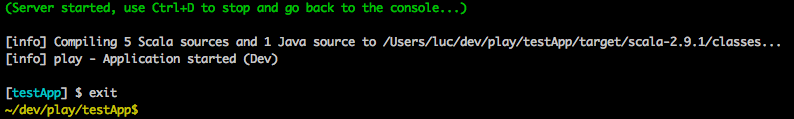
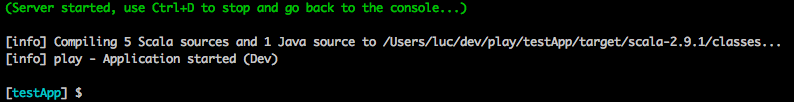
Changed the description and way to use sbteclipse

Changed region(s): [[0.0, 0.2941, 0.9975, 0.6471], [0.0, 0.0, 0.6045, 0.1471], [0.0, 0.7353, 0.1814, 1.0]]

diff --git a/tutorials/play20scalaide20/index-fr.html b/tutorials/play20scalaide20/index-fr.html
@@ -116,7 +116,7 @@
 <ul>
 <li><p class="first">Téléchargez Play framework 2.0-RC1 sur <a class="reference external" href="http://www.playframework.org/2.0">http://www.playframework.org/2.0</a>.</p>
 </li>
-<li><p class="first">Unzippez l&#8217;archive dans votre répertoire préféré. Nous utiliserons <tt class="docutils literal"><span class="pre">/path/to/play20</span></tt> dans ce document.</p>
+<li><p class="first">Un-zippez l&#8217;archive dans votre répertoire préféré. Nous utiliserons <tt class="docutils literal"><span class="pre">/path/to/play20</span></tt> dans ce document.</p>
 </li>
 <li><p class="first">Pour simplifier l&#8217;utilisation, ajoutez le répertoire de Play dans le PATH:</p>
 <div class="highlight-bash"><div class="highlight"><pre><span class="nb">export </span><span class="nv">PATH</span><span class="o">=</span><span class="nv">$PATH</span>:/path/to/play20
@@ -148,27 +148,15 @@
 <div class="section" id="configurer-l-application-web-play-2-0-pour-scala-ide">
 <h2>Configurer l&#8217;application web Play 2.0 pour Scala IDE<a class="headerlink" href="#configurer-l-application-web-play-2-0-pour-scala-ide" title="Permalink to this headline">¶</a></h2>
 <p>Maintenant que l&#8217;application Play fonctionne, il faut la configurer pour pouvoir l&#8217;importer dans Scala IDE.</p>
-<p><a class="reference external" href="https://github.com/musk/SbtEclipsify">eclipsify</a> est intégré dans Play 2.0-RC1. Malheureusement, la configuration qu&#8217;il génère n&#8217;est pas entièrement supportée par Scala IDE 2.0 (voir <a class="reference external" href="http://www.assembla.com/spaces/scala-ide/tickets/1000907">#1000907</a> pour plus de détails).</p>
-<p>Donc nous utilisons <a class="reference external" href="https://github.com/typesafehub/sbteclipse">sbteclipse</a> pour faire de l&#8217;application web un projet Eclipse.</p>
+<p>Play 2.0-RC1 intègre <a class="reference external" href="https://github.com/typesafehub/sbteclipse">sbteclipse</a>, qui permet de créer les fichiers de configuration d&#8217;un projet pour Eclipse.</p>
 <ul>
-<li><p class="first">D&#8217;abord, sortez de Play, en utilisant <tt class="docutils literal"><span class="pre">ctrl-d</span></tt>, puis <tt class="docutils literal"><span class="pre">exit</span></tt>.</p>
+<li><p class="first">D&#8217;abord, sortez du mode &#8216;run&#8217; de Play, en utilisant <tt class="docutils literal"><span class="pre">ctrl-d</span></tt>.</p>
 <a class="reference external image-reference" href="../../_images/play20-scalaide20-06.png"><img alt="ctrl-d, exit" src="../../_images/play20-scalaide20-06.png" style="width: 100%;" /></a>
 </li>
-<li><p class="first">Ajoutez sbteclipse à sbt en créant le fichier <tt class="docutils literal"><span class="pre">project/build.sbt</span></tt> avec le contenu suivant.</p>
-<div class="highlight-scala"><div class="highlight"><pre><span class="n">resolvers</span> <span class="o">+=</span> <span class="nc">Classpaths</span><span class="o">.</span><span class="n">typesafeResolver</span>
-
-<span class="n">addSbtPlugin</span><span class="o">(</span><span class="s">&quot;com.typesafe.sbteclipse&quot;</span> <span class="o">%</span> <span class="s">&quot;sbteclipse&quot;</span> <span class="o">%</span> <span class="s">&quot;1.5.0&quot;</span><span class="o">)</span>
-</pre></div>
-</div>
-<a class="reference external image-reference" href="../../_images/play20-scalaide20-07.png"><img alt="modify project/build.sbt" src="../../_images/play20-scalaide20-07.png" style="width: 100%;" /></a>
-</li>
-<li><p class="first">Retournez dans Play.</p>
-<a class="reference external image-reference" href="../../_images/play20-scalaide20-08.png"><img alt="play" src="../../_images/play20-scalaide20-08.png" style="width: 100%;" /></a>
-</li>
-<li><p class="first">Générez la configuration du projet Eclipse.</p>
+<li><p class="first"><tt class="docutils literal"><span class="pre">eclipsify</span></tt> est la commande à utiliser pour lancer sbteclipse depuis Play.</p>
 <a class="reference external image-reference" href="../../_images/play20-scalaide20-09.png"><img alt="eclipse" src="../../_images/play20-scalaide20-09.png" style="width: 100%;" /></a>
 </li>
-<li><p class="first">Et relancez l&#8217;application web, de manière à ce qu&#8217;elle soit disponible plus tard.</p>
+<li><p class="first">Relancez l&#8217;application web, en mode &#8216;auto-reloading&#8217;, en utilisant <tt class="docutils literal"><span class="pre">~</span> <span class="pre">run</span></tt>, de manière à ce qu&#8217;elle fonctionne en arrière plan.</p>
 <a class="reference external image-reference" href="../../_images/play20-scalaide20-10.png"><img alt="run" src="../../_images/play20-scalaide20-10.png" style="width: 100%;" /></a>
 </li>
 </ul>
@@ -195,6 +183,13 @@
 <li><p class="first">Importez l&#8217;application Play 2.0 en tant que <tt class="docutils literal"><span class="pre">Existing</span> <span class="pre">Projects</span> <span class="pre">into</span> <span class="pre">Workspace</span></tt>.</p>
 <a class="reference external image-reference" href="../../_images/play20-scalaide20-15.png"><img alt="import project" src="../../_images/play20-scalaide20-15.png" style="width: 100%;" /></a>
 </li>
+<li><p class="first">La configuration générée par sbteclipse permet l&#8217;utilisation du project dans Eclipse, mais elle n&#8217;est pas optimale avec Scala IDE.</p>
+<p>Ajoutez le répertoire <tt class="docutils literal"><span class="pre">target/src_managed/main</span></tt> comme répertoire source.</p>
+<a class="reference external image-reference" href="../../_images/play20-scalaide20-20.png"><img alt="add the managed sources folder" src="../../_images/play20-scalaide20-20.png" style="width: 100%;" /></a>
+</li>
+<li><p class="first">Et enlevez le répertoire <tt class="docutils literal"><span class="pre">classes_managed</span></tt> du build path.</p>
+<a class="reference external image-reference" href="../../_images/play20-scalaide20-21.png"><img alt="remove managed classes folder" src="../../_images/play20-scalaide20-21.png" style="width: 100%;" /></a>
+</li>
 <li><p class="first">Tout est parfait, tout compile.</p>
 <a class="reference external image-reference" href="../../_images/play20-scalaide20-16.png"><img alt="everything compiles" src="../../_images/play20-scalaide20-16.png" style="width: 100%;" /></a>
 </li>
@@ -208,7 +203,7 @@
 <li><p class="first">D&#8217;abord, créez la classe <tt class="docutils literal"><span class="pre">models.Quote</span></tt> en utilisant l&#8217;assistant nouvelle <tt class="docutils literal"><span class="pre">Scala</span> <span class="pre">Class</span></tt>.</p>
 <a class="reference external image-reference" href="../../_images/play20-scalaide20-19.png"><img alt="create model.Quote" src="../../_images/play20-scalaide20-19.png" style="width: 100%;" /></a>
 </li>
-<li><p class="first">Ajoutez les variables à <tt class="docutils literal"><span class="pre">models.Quote</span></tt>, et faites en une case class.</p>
+<li><p class="first">Ajoutez les variables à <tt class="docutils literal"><span class="pre">models.Quote</span></tt>, et faites en une case classe.</p>
 <div class="highlight-scala"><div class="highlight"><pre><span class="k">package</span> <span class="nn">models</span>
 
 <span class="k">case</span> <span class="k">class</span> <span class="nc">Quote</span><span class="o">(</span><span class="k">val</span> <span class="n">text</span><span class="k">:</span> <span class="kt">String</span><span class="o">,</span> <span class="k">val</span> <span class="n">author</span><span class="k">:</span> <span class="kt">String</span><span class="o">)</span> <span class="o">{</span>
@@ -228,8 +223,8 @@
 </pre></div>
 </div>
 </li>
-<li><p class="first">Les templates sont transformés en code Scala par le Play framework, donc utilisez le bouton <tt class="docutils literal"><span class="pre">refresh</span></tt> du navigateur interne pour l&#8217;effectuer.</p>
-<p>Play répond avec une erreur compilation, l&#8217;application n&#8217;utilise pas le template correctement. L&#8217;erreur est aussi visible dans le code de <tt class="docutils literal"><span class="pre">Application.scala</span></tt>.</p>
+<li><p class="first">Les templates sont transformés en code Scala par le Play framework. Comme Play a été lancé en mode &#8216;auto-reloading&#8217; en arrière plan, les templates sont recompilés dès que le fichier est sauvegardé.</p>
+<p>Apres avoir sauvegardé le fichier, les changements sont chargés par Scala IDE, et une erreur est reporté dans le code de <tt class="docutils literal"><span class="pre">Application.scala</span></tt>. L&#8217;application n&#8217;utilise pas le template correctement.</p>
 <a class="reference external image-reference" href="../../_images/play20-scalaide20-17.png"><img alt="compilation error" src="../../_images/play20-scalaide20-17.png" style="width: 100%;" /></a>
 </li>
 <li><p class="first">Corrigez le code de l&#8217;application, en utilisant une citation élégante. Et corrigez les imports au besoin.</p>

diff --git a/tutorials/play20scalaide20/index.html b/tutorials/play20scalaide20/index.html
@@ -146,27 +146,15 @@
 <div class="section" id="configuring-the-play-2-0-web-application-for-scala-ide">
 <h2>Configuring the Play 2.0 web application for Scala IDE<a class="headerlink" href="#configuring-the-play-2-0-web-application-for-scala-ide" title="Permalink to this headline">¶</a></h2>
 <p>Now that the Play application is running, it needs to be configured so it can be imported into Scala IDE.</p>
-<p>Play 2.0-RC1 integrates <a class="reference external" href="https://github.com/musk/SbtEclipsify">eclipsify</a>, unfortunally Scala IDE 2.0 doesn&#8217;t fully support the configuration it generates (see <a class="reference external" href="http://www.assembla.com/spaces/scala-ide/tickets/1000907">#1000907</a> for more details).</p>
-<p>In consequence, we are using <a class="reference external" href="https://github.com/typesafehub/sbteclipse">sbteclipse</a> to make an Eclipse project of the sbt project.</p>
+<p>Play 2.0-RC1 integrates <a class="reference external" href="https://github.com/typesafehub/sbteclipse">sbteclipse</a>, which allow to create configuration files of a project for Eclipse.</p>
 <ul>
-<li><p class="first">First, exit Play using <tt class="docutils literal"><span class="pre">ctrl-d</span></tt>, and then <tt class="docutils literal"><span class="pre">exit</span></tt>.</p>
+<li><p class="first">First, exit the &#8216;run&#8217; mode in Play using <tt class="docutils literal"><span class="pre">ctrl-d</span></tt>.</p>
 <a class="reference external image-reference" href="../../_images/play20-scalaide20-06.png"><img alt="ctrl-d, exit" src="../../_images/play20-scalaide20-06.png" style="width: 100%;" /></a>
 </li>
-<li><p class="first">Add sbteclipse to sbt by creating the <tt class="docutils literal"><span class="pre">project/build.sbt</span></tt> file and adding the following lines.</p>
-<div class="highlight-scala"><div class="highlight"><pre><span class="n">resolvers</span> <span class="o">+=</span> <span class="nc">Classpaths</span><span class="o">.</span><span class="n">typesafeResolver</span>
-
-<span class="n">addSbtPlugin</span><span class="o">(</span><span class="s">&quot;com.typesafe.sbteclipse&quot;</span> <span class="o">%</span> <span class="s">&quot;sbteclipse&quot;</span> <span class="o">%</span> <span class="s">&quot;1.5.0&quot;</span><span class="o">)</span>
-</pre></div>
-</div>
-<a class="reference external image-reference" href="../../_images/play20-scalaide20-07.png"><img alt="modify project/build.sbt" src="../../_images/play20-scalaide20-07.png" style="width: 100%;" /></a>
-</li>
-<li><p class="first">Go back into Play.</p>
-<a class="reference external image-reference" href="../../_images/play20-scalaide20-08.png"><img alt="play" src="../../_images/play20-scalaide20-08.png" style="width: 100%;" /></a>
-</li>
-<li><p class="first">Generate the Eclipse project configuration.</p>
+<li><p class="first"><tt class="docutils literal"><span class="pre">eclipsify</span></tt> is the command to invoke sbteclipse in Play.</p>
 <a class="reference external image-reference" href="../../_images/play20-scalaide20-09.png"><img alt="eclipse" src="../../_images/play20-scalaide20-09.png" style="width: 100%;" /></a>
 </li>
-<li><p class="first">And relaunch the web application, so it is available later.</p>
+<li><p class="first">Relaunch the web application, in &#8216;auto-reloading&#8217; mode, using <tt class="docutils literal"><span class="pre">~</span> <span class="pre">run</span></tt>, so it is running in the background.</p>
 <a class="reference external image-reference" href="../../_images/play20-scalaide20-10.png"><img alt="run" src="../../_images/play20-scalaide20-10.png" style="width: 100%;" /></a>
 </li>
 </ul>
@@ -178,7 +166,7 @@
 <li><p class="first">Open the internal web browser view in Eclipse, and check you can access your web application.</p>
 <a class="reference external image-reference" href="../../_images/play20-scalaide20-12.png"><img alt="http://localhost:9000/" src="../../_images/play20-scalaide20-12.png" style="width: 100%;" /></a>
 </li>
-<li><p class="first">Configure Eclipse so changes on the filesystem are automatically picked up.</p>
+<li><p class="first">Configure Eclipse so changes on the file system are automatically picked up.</p>
 <a class="reference external image-reference" href="../../_images/play20-scalaide20-13.png"><img alt="refresh automatically" src="../../_images/play20-scalaide20-13.png" style="width: 100%;" /></a>
 </li>
 <li><p class="first">If you don&#8217;t have the Web Development Tools for Eclipse installed, Eclipse opens <tt class="docutils literal"><span class="pre">.html</span></tt> files in a web browser. Configure it to use the <tt class="docutils literal"><span class="pre">Scala</span> <span class="pre">Editor</span></tt> instead.</p>
@@ -192,6 +180,13 @@
 <ul>
 <li><p class="first">Import the Play 2.0 application as an <tt class="docutils literal"><span class="pre">Existing</span> <span class="pre">Projects</span> <span class="pre">into</span> <span class="pre">Workspace</span></tt>.</p>
 <a class="reference external image-reference" href="../../_images/play20-scalaide20-15.png"><img alt="import project" src="../../_images/play20-scalaide20-15.png" style="width: 100%;" /></a>
+</li>
+<li><p class="first">The configuration generated by sbteclipse is working fine in Eclipse, but it is not optimal when using with Scala IDE.</p>
+<p>Add the <tt class="docutils literal"><span class="pre">target/src_managed/scala</span></tt> folder as a source folder.</p>
+<a class="reference external image-reference" href="../../_images/play20-scalaide20-20.png"><img alt="add the managed sources folder" src="../../_images/play20-scalaide20-20.png" style="width: 100%;" /></a>
+</li>
+<li><p class="first">And remove the <tt class="docutils literal"><span class="pre">classes_managed</span></tt> folder for the build path.</p>
+<a class="reference external image-reference" href="../../_images/play20-scalaide20-21.png"><img alt="remove managed classes folder" src="../../_images/play20-scalaide20-21.png" style="width: 100%;" /></a>
 </li>
 <li><p class="first">Everything is good, everything compiles.</p>
 <a class="reference external image-reference" href="../../_images/play20-scalaide20-16.png"><img alt="everything compiles" src="../../_images/play20-scalaide20-16.png" style="width: 100%;" /></a>
@@ -226,8 +221,8 @@
 </pre></div>
 </div>
 </li>
-<li><p class="first">The templates are transformed into Scala code by the Play framework, so use the <tt class="docutils literal"><span class="pre">refresh</span></tt> button in the internal web browser to trigger it.</p>
-<p>Play returns a compilation error, the application is not using the template correctly. The error is also visible in the code of <tt class="docutils literal"><span class="pre">Application.scala</span></tt>.</p>
+<li><p class="first">The templates are transformed into Scala code by the Play framework. As Play has been started in auto-reloading mode in the background, templates are recompiled as soon as the file is saved.</p>
+<p>After saving the file, the changes are picked up by Scala IDE, and it reports an error in the code of <tt class="docutils literal"><span class="pre">Application.scala</span></tt>. The application is not using the template correctly.</p>
 <a class="reference external image-reference" href="../../_images/play20-scalaide20-17.png"><img alt="compilation error" src="../../_images/play20-scalaide20-17.png" style="width: 100%;" /></a>
 </li>
 <li><p class="first">Fix the application code, using a smart quote. And fix the imports as needed.</p>
